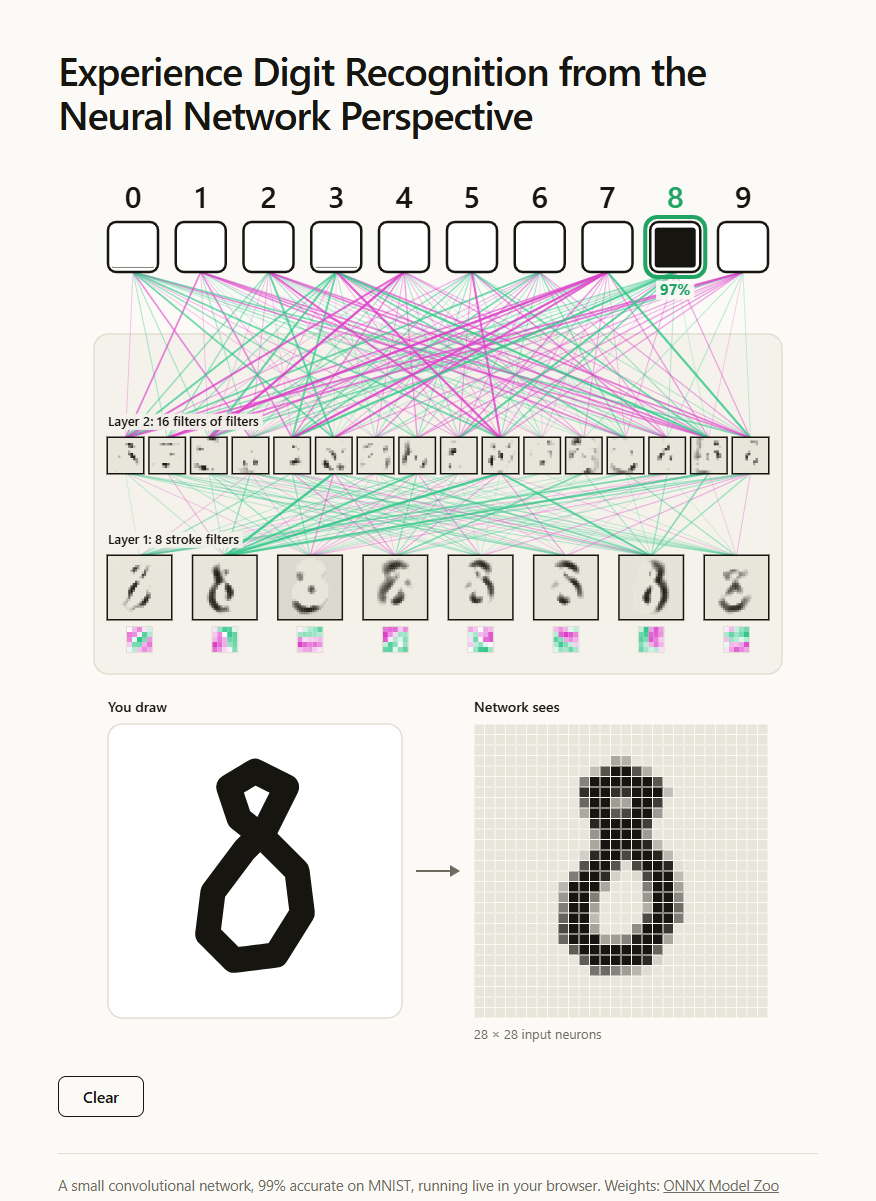
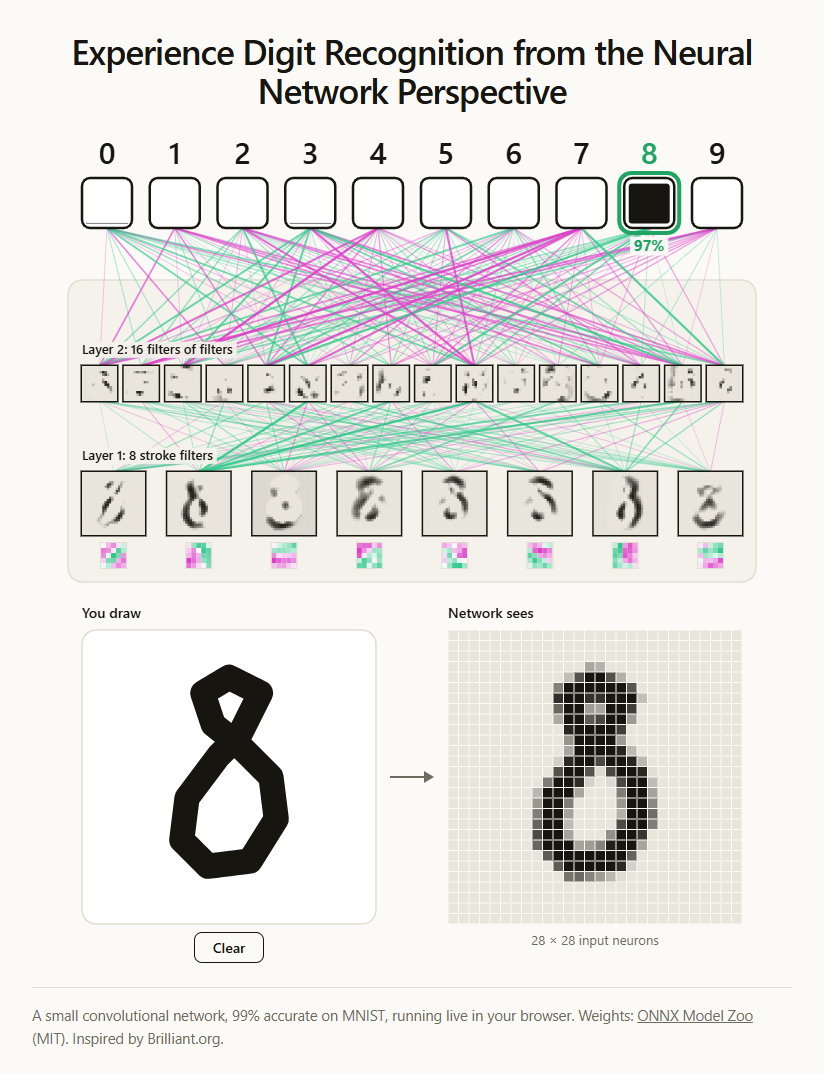
Fresh screenshots (desktop + phone), archive the old network locally, tidy README

diff --git a/README.md b/README.md
@@ -4,7 +4,10 @@ Draw a digit and watch a convolutional neural network read it, layer by layer, l
 
 **▶ Try it: [hasin.eu/projects/cnn-digit-recognition-in-action](https://hasin.eu/projects/cnn-digit-recognition-in-action/)**. Works on desktop and phone.
 
-![Drawing an 8: the network's input, both hidden layers and the answer, 97%](docs/screenshot.png)
+<p>
+  <img src="docs/screenshot.png" alt="Drawing an 8: the network's input, both hidden layers and the answer, 97%" width="64%">
+  <img src="docs/phone.png" alt="On a phone, with layer 1 filter 2 opened in a bubble" width="32%">
+</p>
 
 ## Why I built it
 
@@ -23,9 +26,10 @@ Draw a clean 8 and watch it light up. Then draw a sloppy 6, or a letter, and see
 - **You draw → Network sees.** Your pen path becomes the network's real input: 28 × 28 values, one per input neuron, resized and centred the way the MNIST training digits were.
 - **Layer 1.** 8 small 5×5 filters slide over the input. Each map is dark where its filter's pattern was found. In the filters, green wants ink and magenta wants empty.
 - **Layer 2.** 16 filters run over the layer 1 maps, after shrinking them to half size. They pick up combinations of strokes: corners, loops and crossings.
-- **Outputs.** There are 10 boxes. How full a box is shows how sure the network is. The answer has a green outline and its confidence in %.
+- **Outputs.** 10 boxes; how full each is shows how sure the network is. The answer gets a green outline and its confidence in %.
 - **Lines.** Green lines push the next layer up, magenta lines push it down.
-- **Zoom.** Click (or tap) any filter or map to open it enlarged in a bubble. Click it again, or anywhere on the bubble, to close it.
+- **Zoom.** Click or tap any filter or map to open it enlarged in a bubble. Click it again, or the bubble, to close it.
+- **Clear.** The button, or the C key.
 
 ## Run it
 
@@ -47,6 +51,8 @@ Then open http://localhost:5317. Any static file server works.
 | `preprocess.js` | Redraws the pen path MNIST-style: thin stroke, fit to 20 × 20, centred by mass |
 | `model/cnn.json` | Weights (54 KB) |
 | `tools/convert-cnn.mjs` | Converts the original ONNX model to `cnn.json` by reading the protobuf directly |
+| `serve.mjs` | Tiny local static server |
+| `vercel.json` | Hosting: serves the page at `/projects/cnn-digit-recognition-in-action/` |
 
 Network: conv 5×5 (8 filters) → ReLU → max-pool 2 → conv 5×5 (16 filters) → ReLU → max-pool 3 → dense 256 → 10 → softmax. It is 98.9% accurate on the MNIST test set.
 
